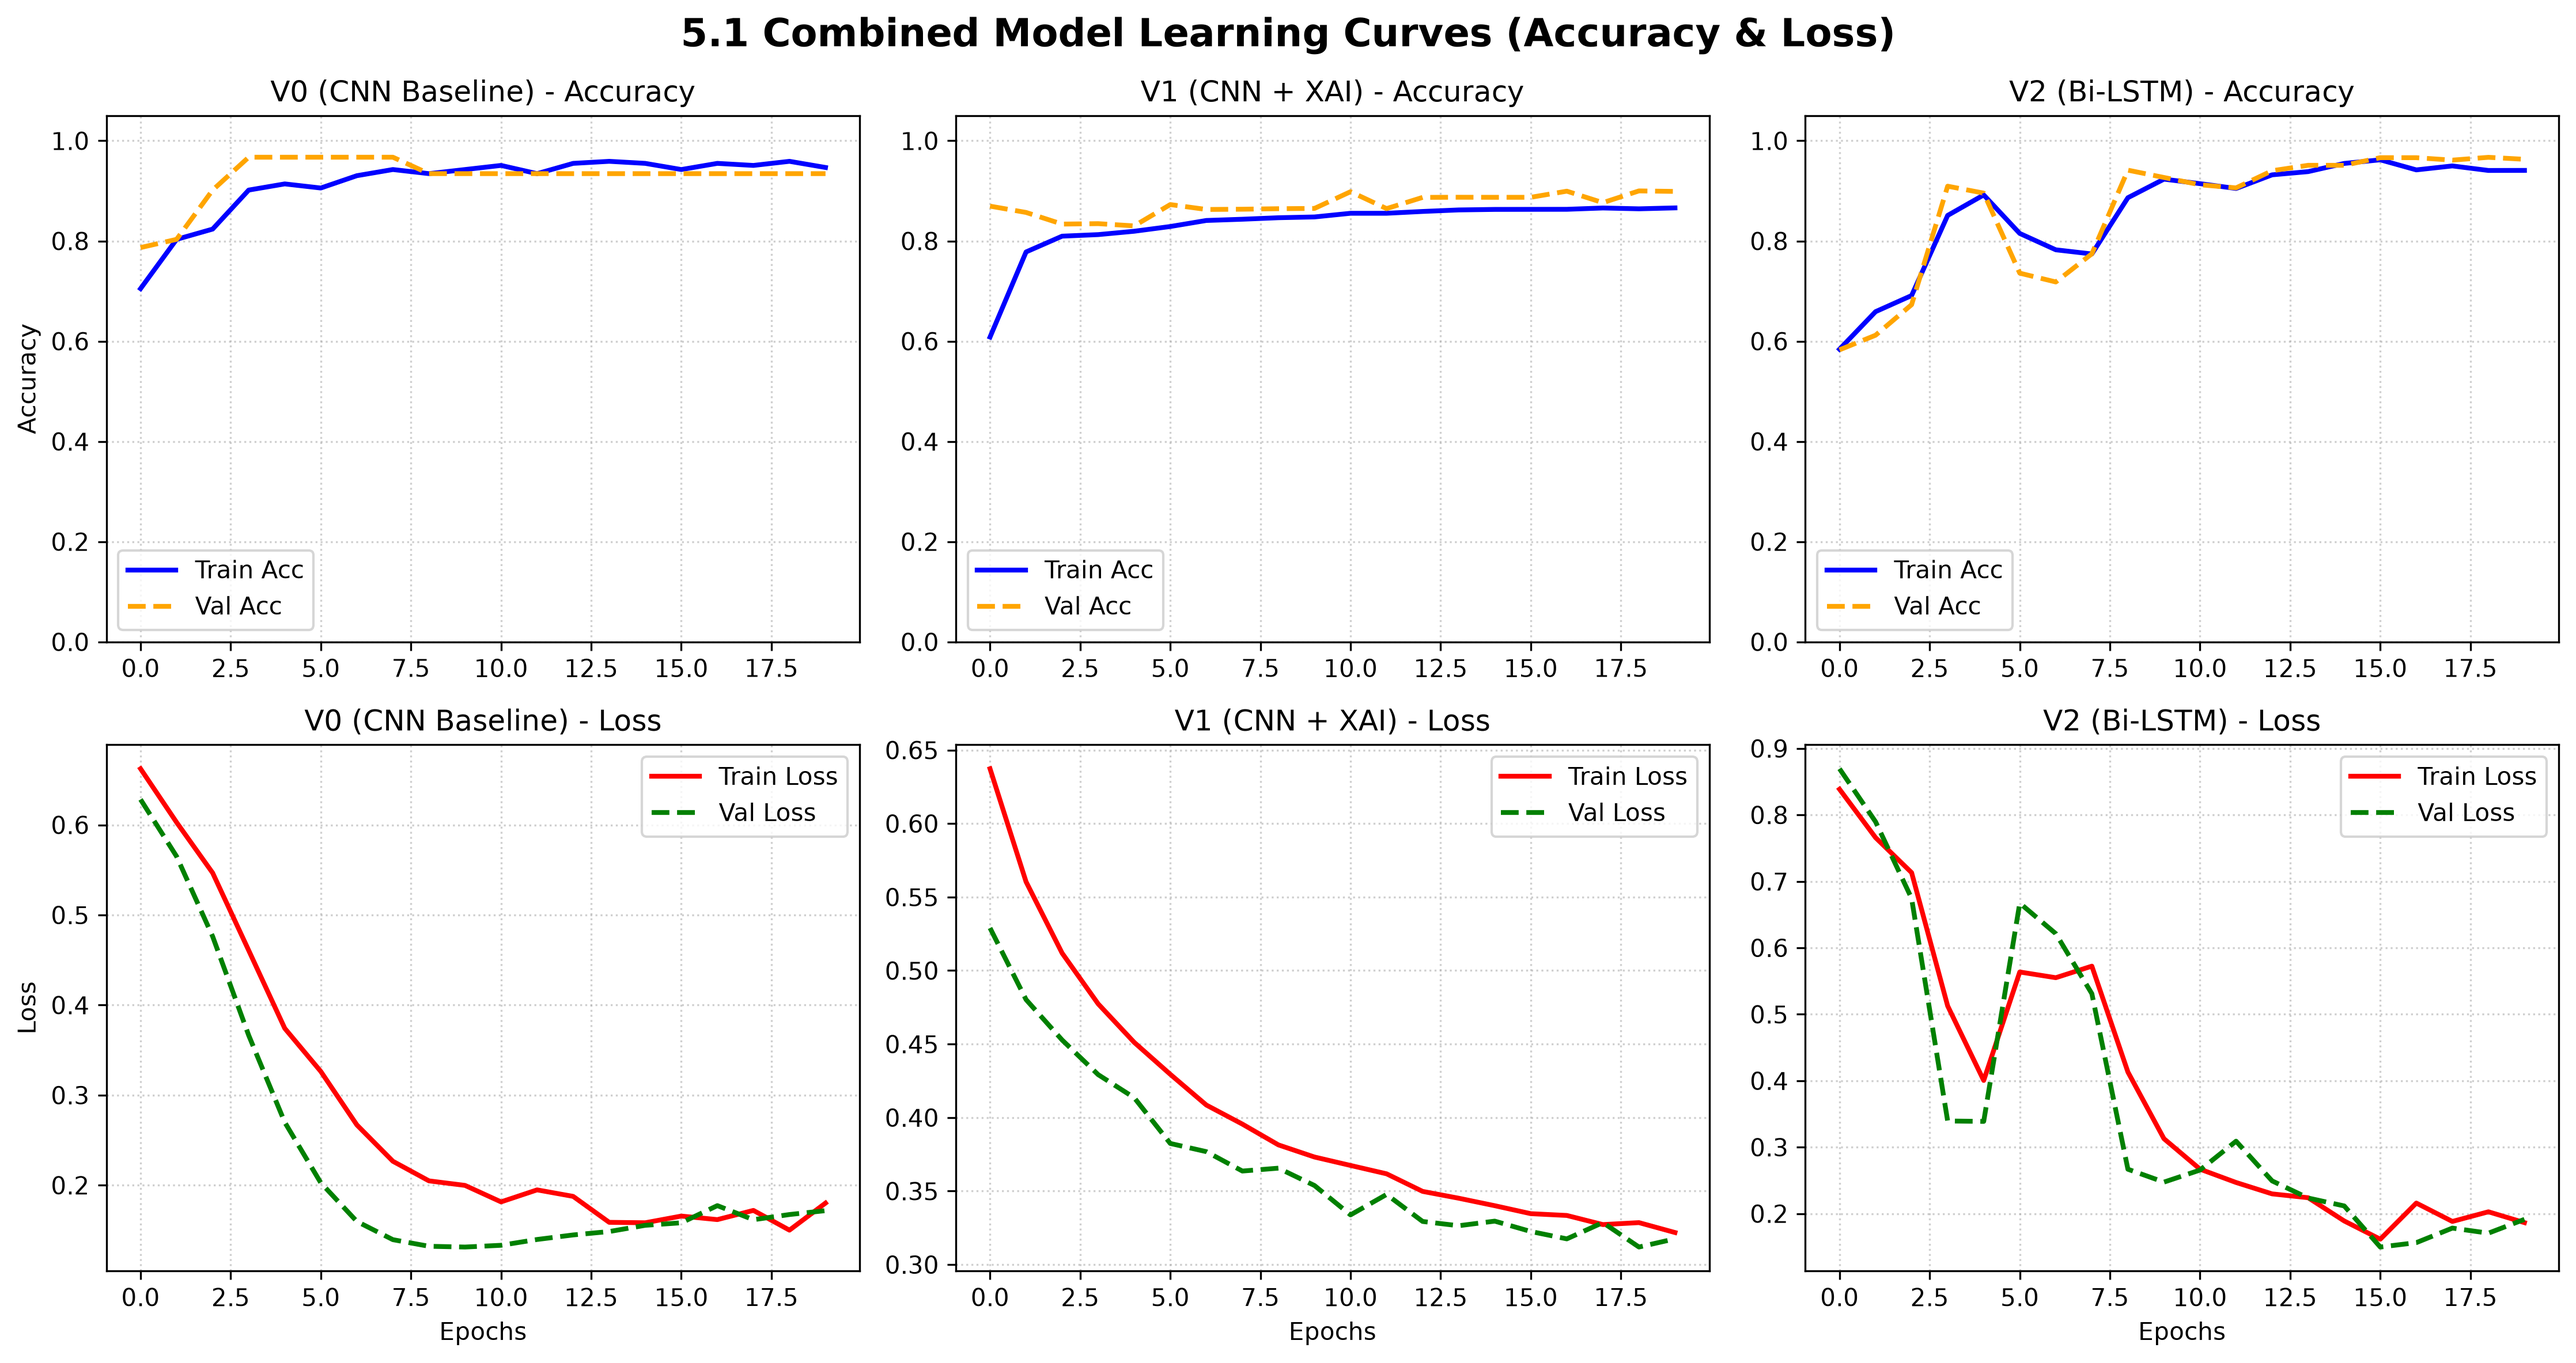
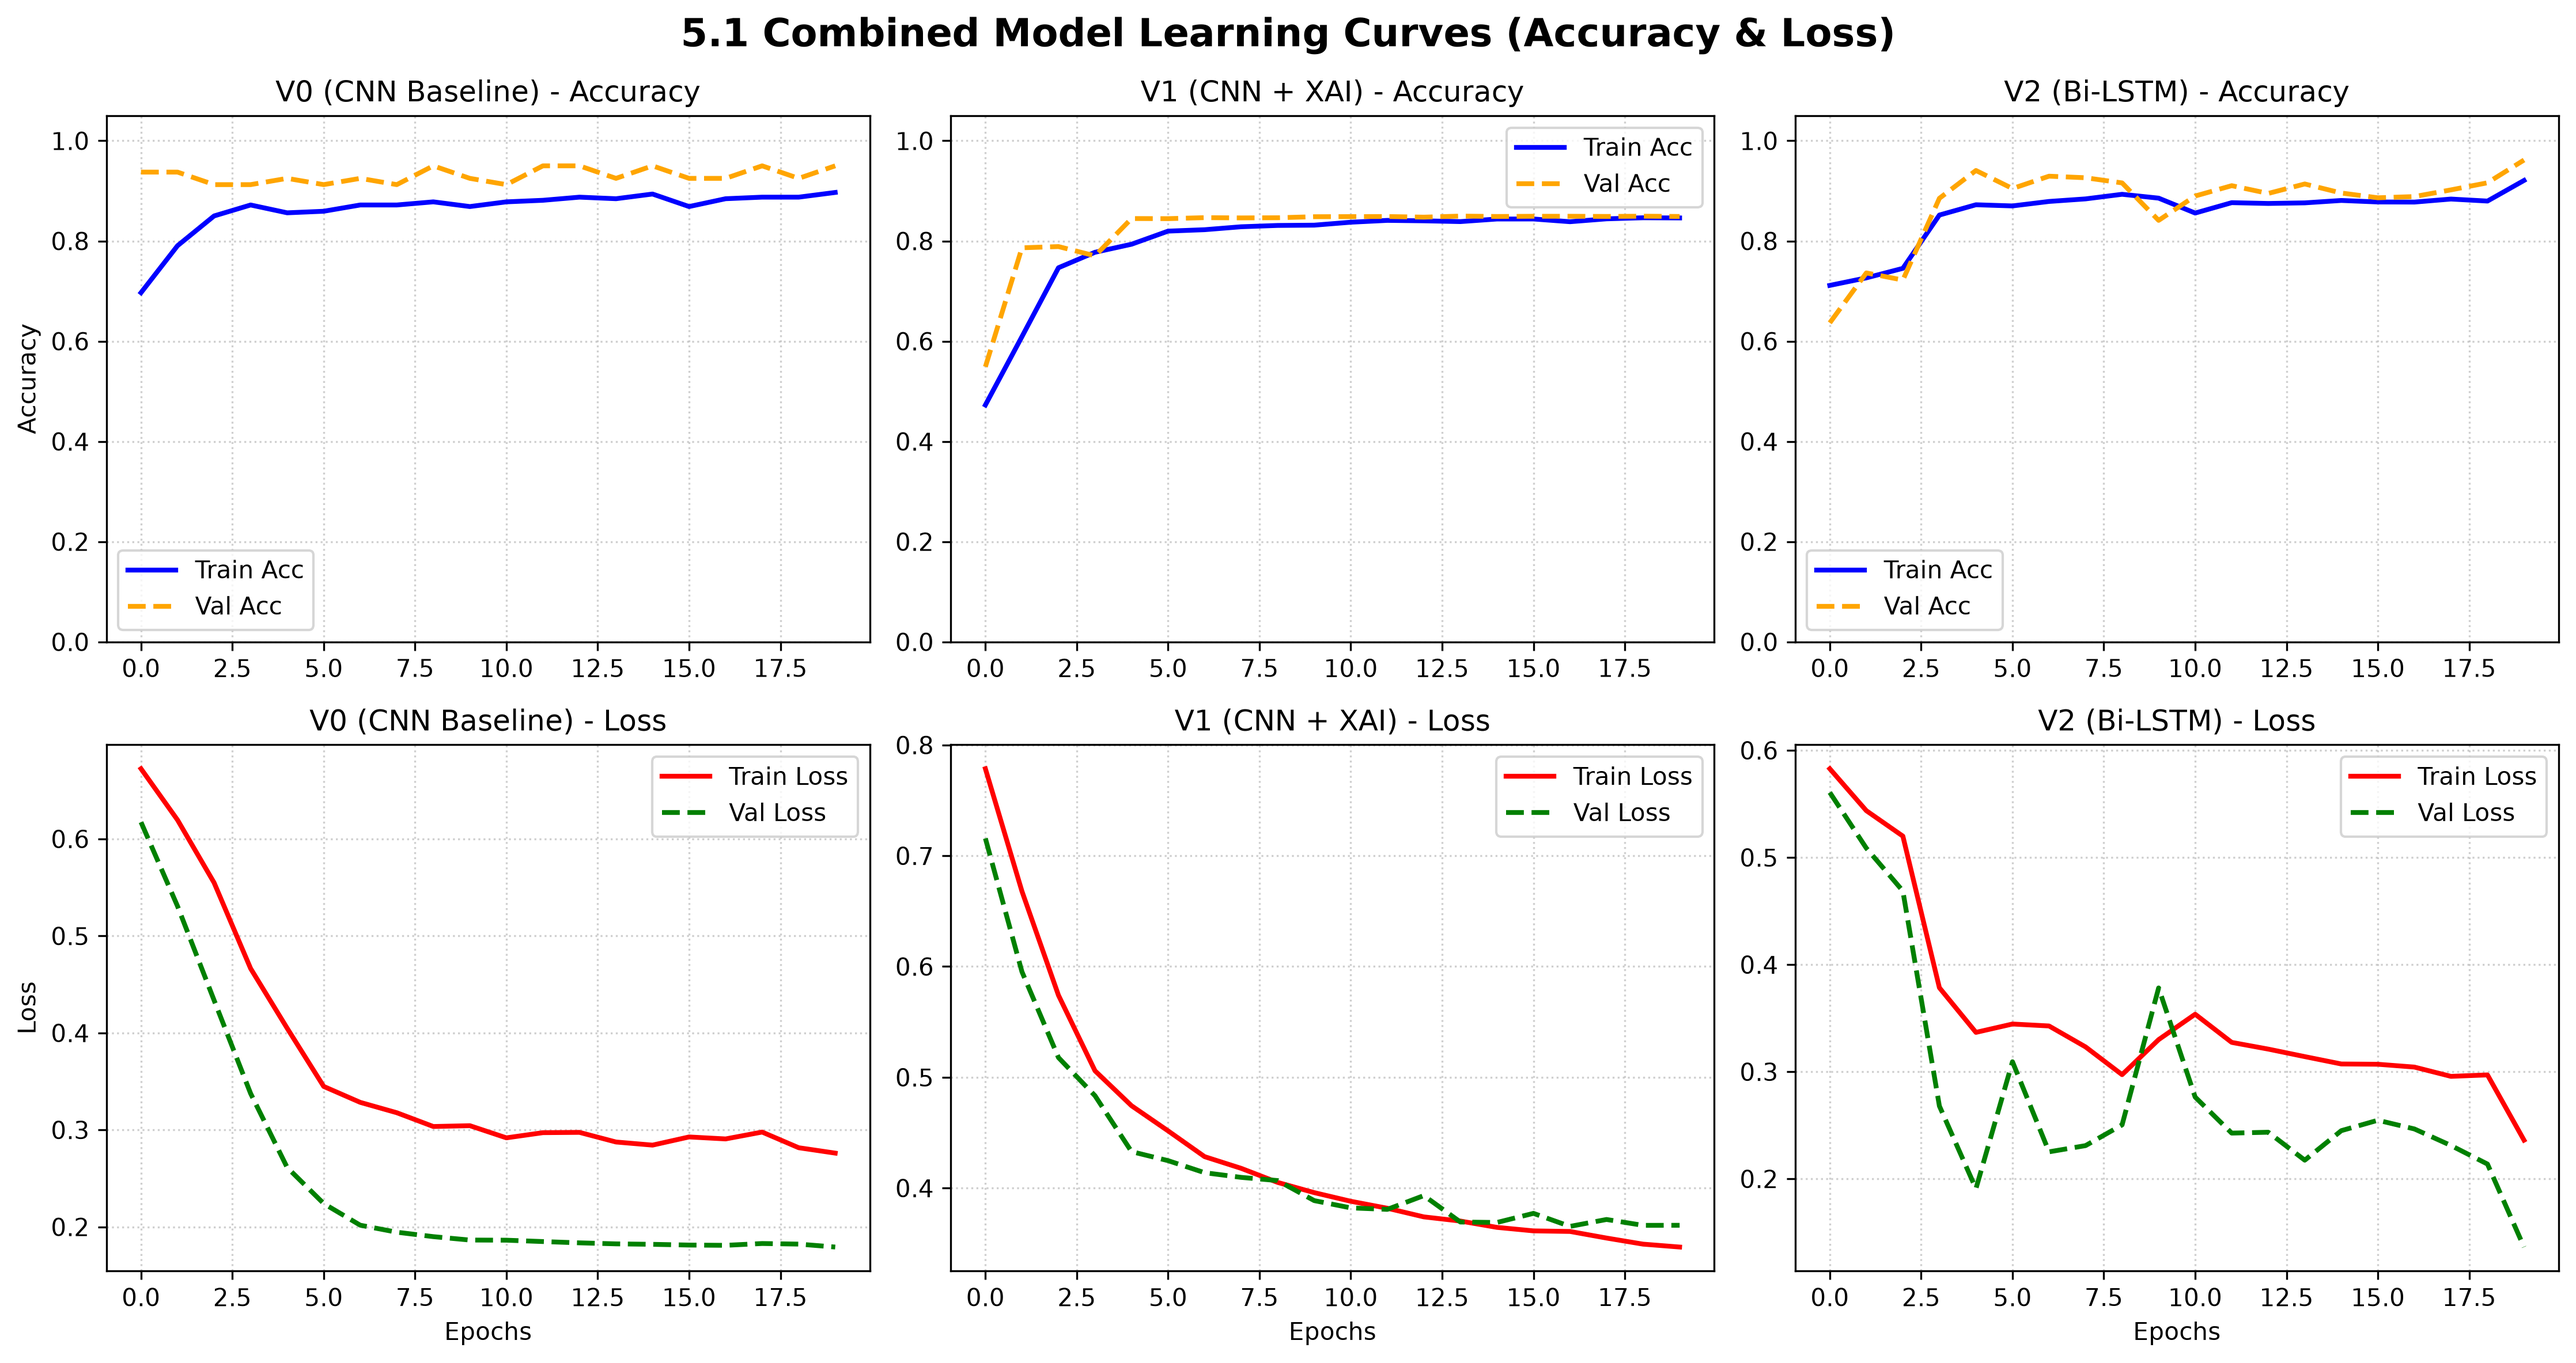
retrain on 400 datasetss

diff --git a/scripts/unified_evaluator.py b/scripts/unified_evaluator.py
@@ -68,7 +68,7 @@ def build_v2_lstm():
 # ====================================================
 def get_or_train_model(model_name, filepath, build_fn, X_train, y_train):
     if not FORCE_RETRAIN and os.path.exists(filepath):
-        print(f"📦 Me-load {model_name} dari {filepath}...")
+        print(f"Me-load {model_name} dari {filepath}...")
         try:
             model = load_model(filepath)
             return model
@@ -92,18 +92,15 @@ if __name__ == "__main__":
     
     # 1. Dapatkan V0
     model_v0 = get_or_train_model("V0 (Baseline)", MODEL_PATHS['v0'], build_v0_baseline, X_v0, y_v0)
-    
     model_v0.save("../models/elkinematic.keras")
     
     # 2. Dapatkan V1
     model_v1 = get_or_train_model("V1 (XAI CNN)", MODEL_PATHS['v1'], build_v1_xai, X_v1, y_v1)
-    
     model_v1.save("../models/elkinematicV1.keras")
 
     
     # 3. Dapatkan V2
     model_v2 = get_or_train_model("V2 (LSTM) [Current]", MODEL_PATHS['v2'], build_v2_lstm, X_v2, y_v2)
-    
     model_v2.save("../models/elkinematicV2.keras")
     
     # ====================================================

diff --git a/scripts/config.py b/scripts/config.py
@@ -13,4 +13,4 @@ MODEL_PATHS = {
     "v2": f"{MODEL_DIR}elkinematicV2.keras"
 }
 
-FORCE_RETRAIN = False  # Ubah ke True untuk memaksa training ulang secara adil (Apples-to-Apples)
+FORCE_RETRAIN = True  # Ubah ke True untuk memaksa training ulang secara adil (Apples-to-Apples)
